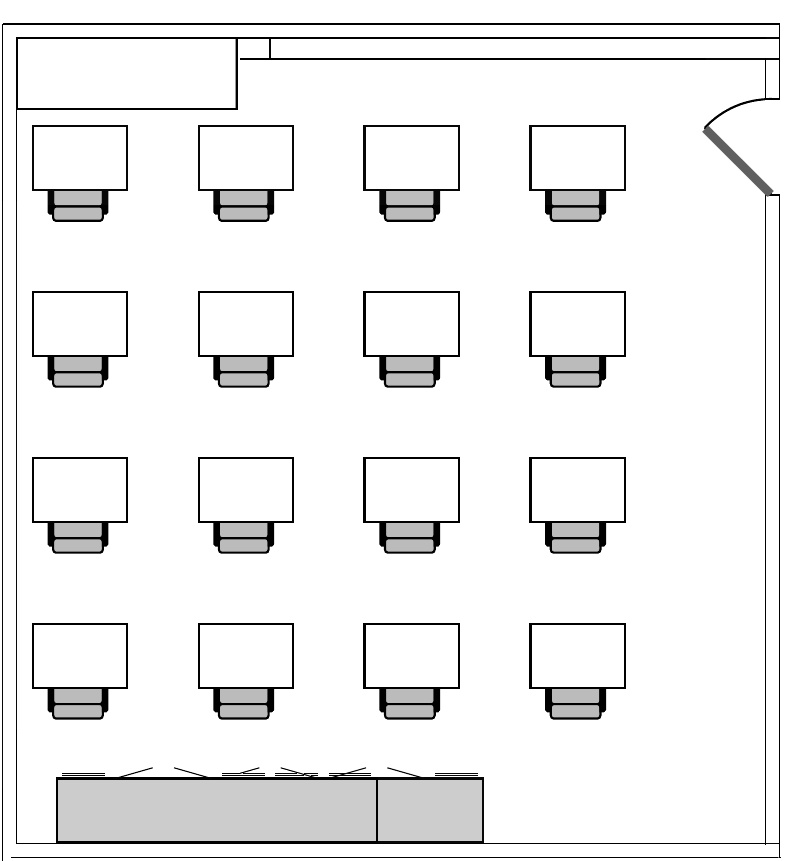
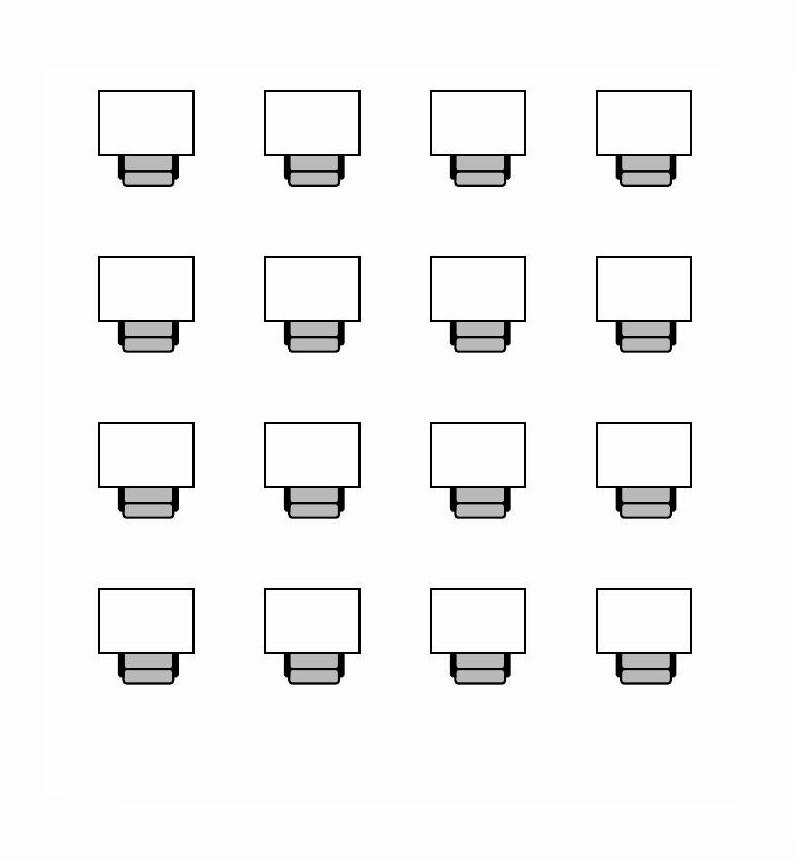
Add files via upload

diff --git a/eu/Style.css b/eu/Style.css
@@ -1,8 +1,6 @@
 body {
-    background-image: url(MAPA-DE-SALA-EDITAVEL.jpg);
-    background-size: cover;
-    background-position: center;      
-    color:rgb(0, 0, 0);
+  
+    color:rgb(3, 0, 3);
     font-size: 50px;
     font-style: bold;
     
@@ -24,6 +22,8 @@ body {
 .estudante{
   display: flex;
   flex-wrap: wrap;
+  justify-content: center;
+  
 
 }
 .iten{
@@ -34,6 +34,13 @@ body {
 }
 .iten img{
 
-    width: 500px;
+    width: 200px;
 
+}
+
+.fundo {
+
+    background-image: url(img/MAPA-DE-SALA-EDITAVEL.jpg);
+    background-size: 100%;   
+    background-position:center;   
 }

diff --git a/eu/index.html b/eu/index.html
@@ -33,9 +33,9 @@
             <p> O segundo C é uma turma do ensino médio da tarde da escola</p>
         </div>
     </section>
-    <section>
+    <section class= "fundo">
         <div class = "estudantes">
-            <h1>Class = "estudantes" Estudantes:</h1>
+            <h1>Estudantes:</h1>
             <div class = "iten">
             <img src=img/Ewellyn.jpg alt=”logo”>
             <p>Ewellyn do 2ºC</p>
